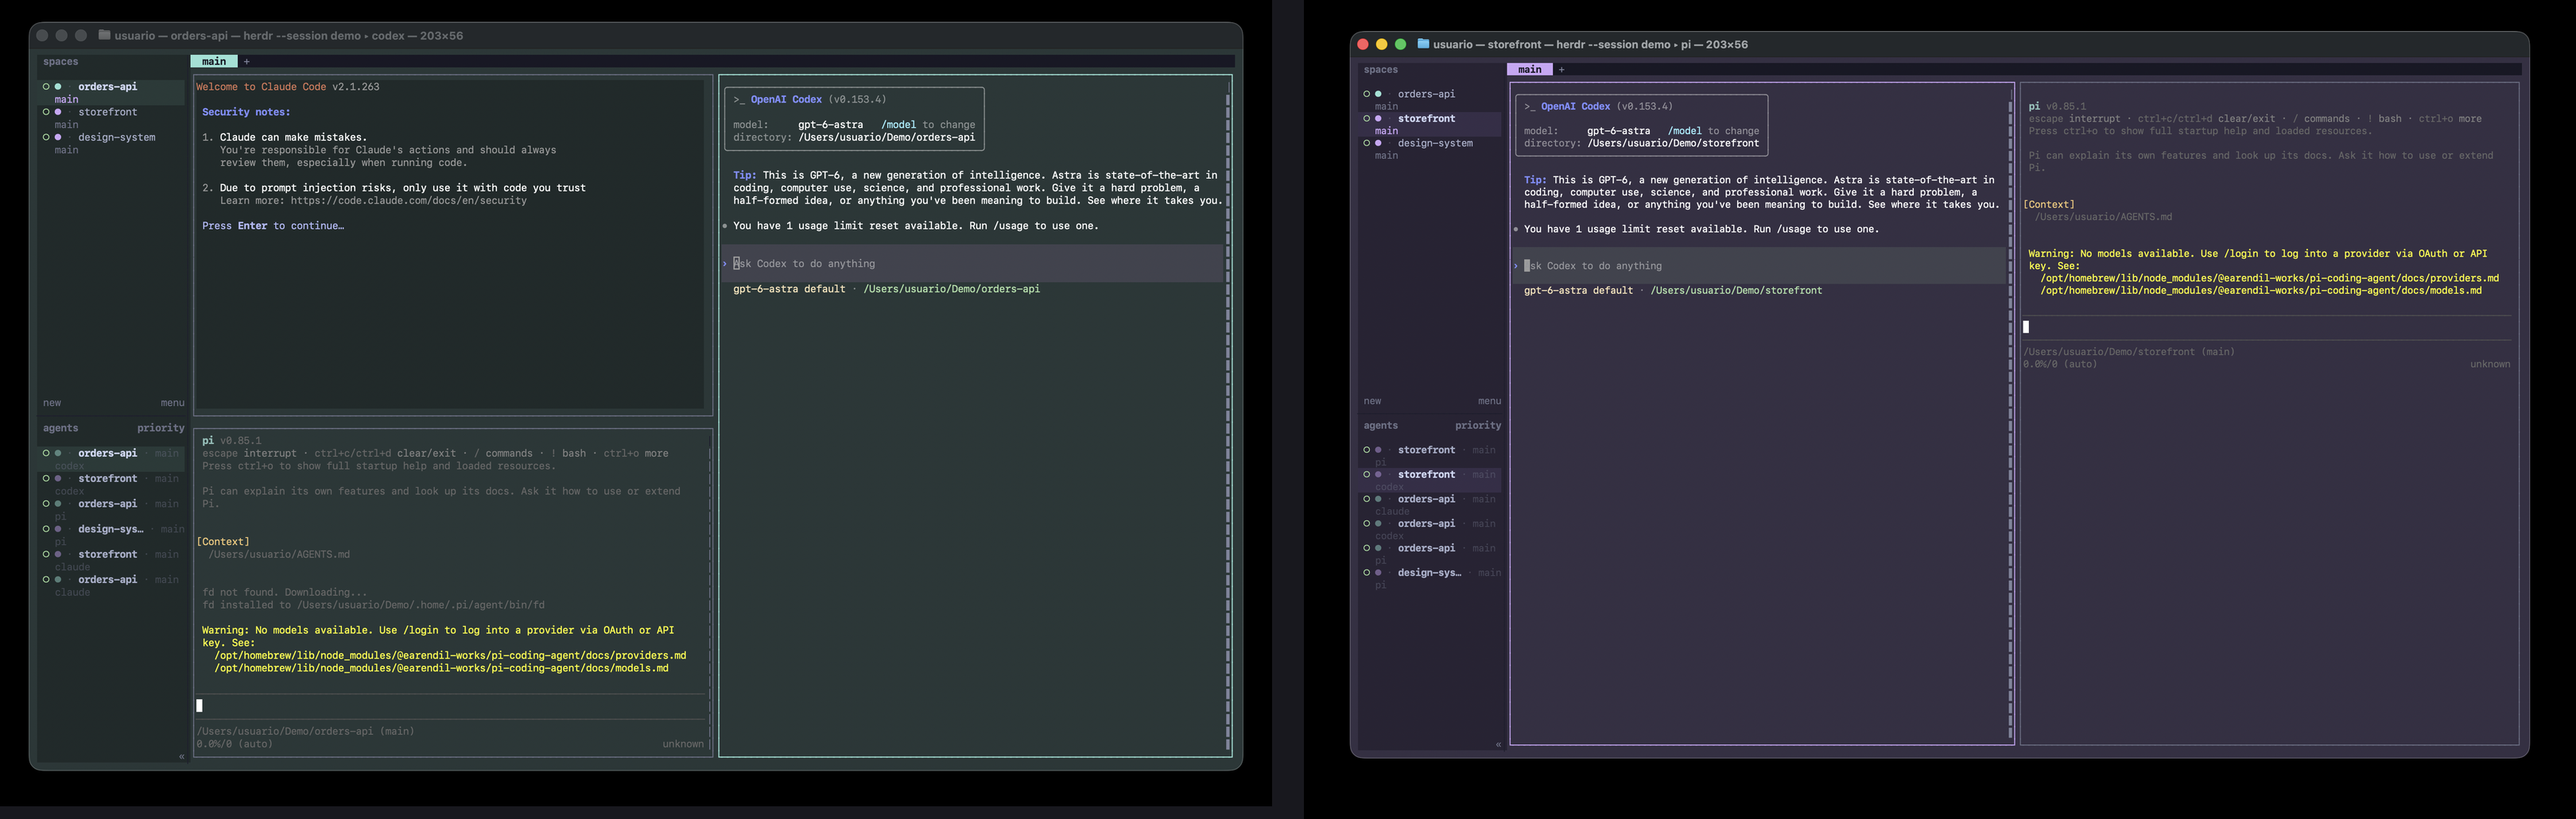
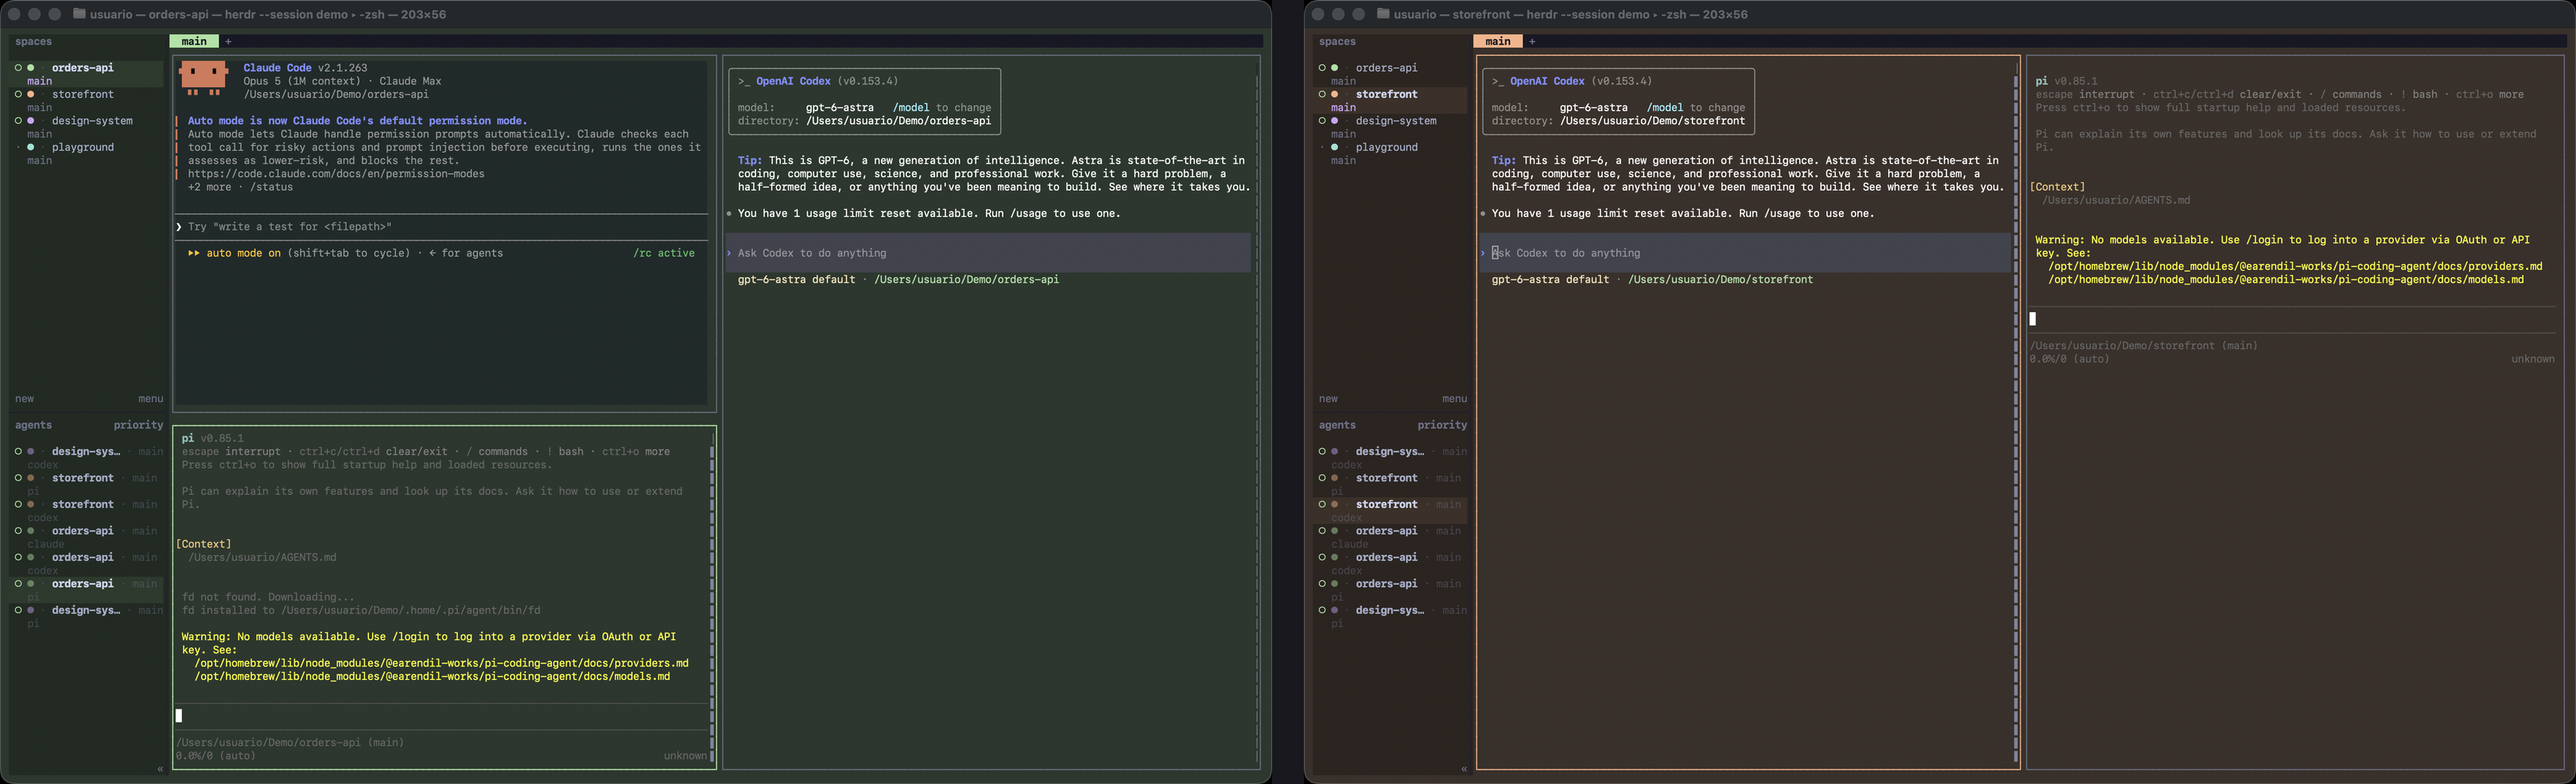
docs: refresh demo screenshots with settled agent panels
Recaptured the hero, per-pane still and tour GIF from the demo session
with the agents fully loaded (the earlier hero caught mid sign-in), and
switched the hero's second workspace to peach to match the GIF palette.

Claude-Session: https://claude.ai/code/session_01L8WHXmbxWuV4kwKbPunHSk

Changed region(s): [[0.0, 0.0, 1.0, 1.0]]

diff --git a/README.md b/README.md
@@ -29,7 +29,7 @@ and the Terminal title bar all follow the focused workspace.*
 **One palette, four surfaces.** Assign a workspace a colour and it shows up in
 four places at once, so the active project is unmistakable:
 
-![Two workspaces side by side: orders-api focused in green, storefront focused in mauve.](docs/hero.png)
+![Two workspaces side by side: orders-api focused in green, storefront focused in peach.](docs/hero.png)
 
 | Surface | What changes | Mechanism |
 |---|---|---|
